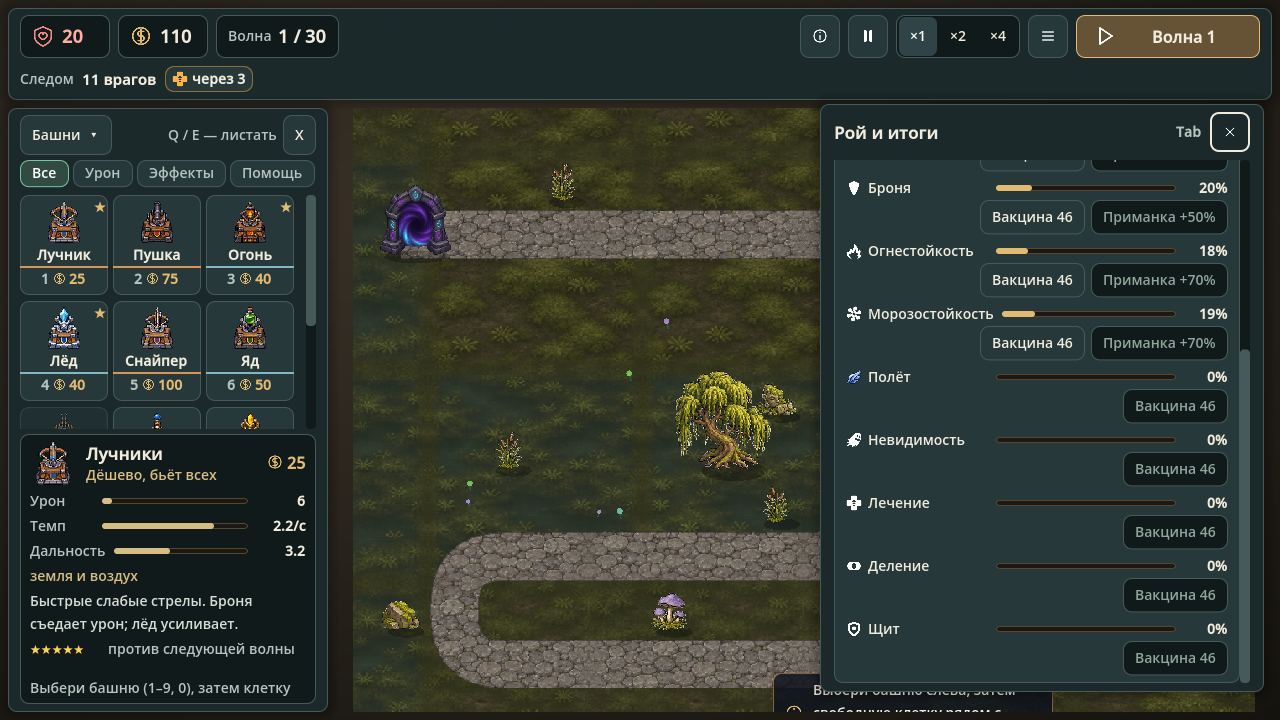
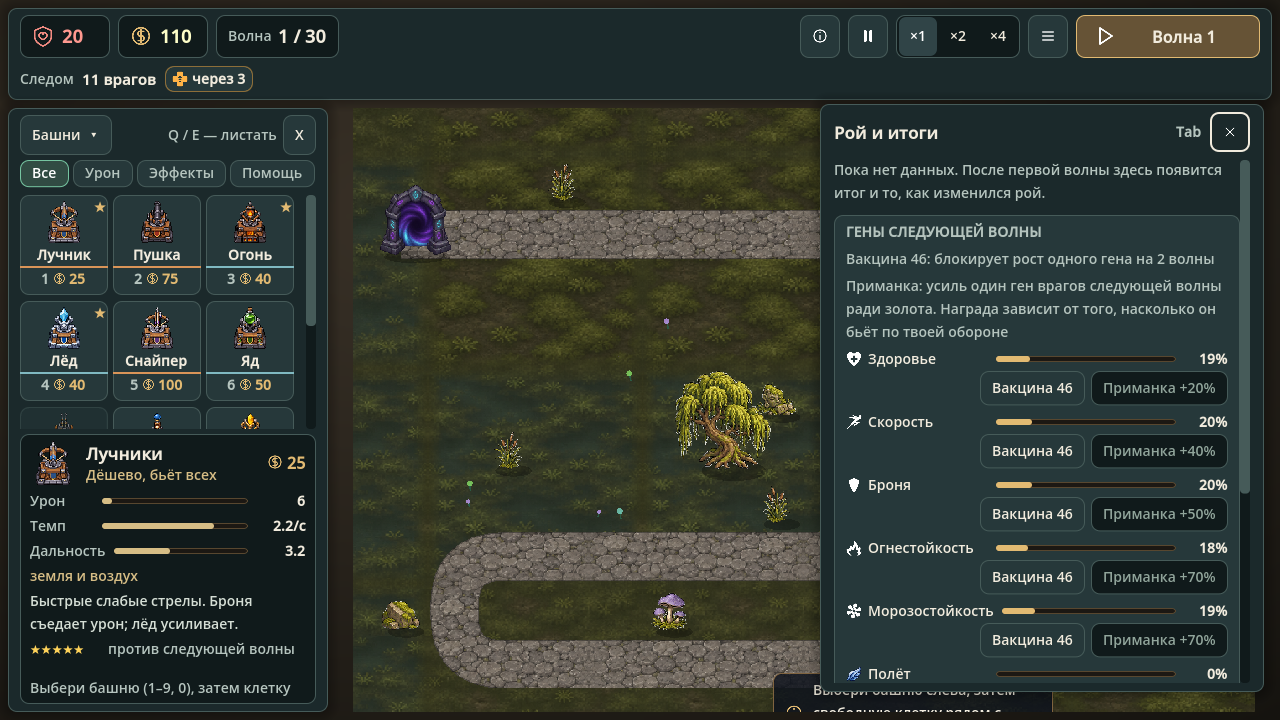
PRO-150: reset swarm context scroll and keep advice clear of inspector

diff --git a/docs/pro150/review-fixes.md b/docs/pro150/review-fixes.md
@@ -1,0 +1,50 @@
+# PR #9 — исправления по ревью 15.11.2026
+
+Ответ на [ревью владельца](https://github.com/MaksimOrekhov/outadapt/pull/9#issuecomment-6898605061). Исходная версия: `68d7b87`.
+
+## Прокрутка «Роя»
+
+Панель запоминает объект текущего TDGame через WeakRef. При новом объекте (restart, успешная загрузка, другой fixture) прокрутка сразу сбрасывается и подтверждается после раскладки контейнеров. При обновлении действий в том же забеге сохраняется прежняя позиция; revision token не позволяет более старому deferred callback переписать новую позицию. Закрытие/повторное открытие того же забега и неудачная загрузка сохраняют контекст. Сохранения, sim и игровые правила не менялись.
+
+| Размер | До ревью | Исправленный пустой Рой | Настоящий restart / load |
+|---|---|---|---|
+| 960×540 | [середина списка](../../screenshots/pro150/review/before/empty-swarm-960x540.png) | [«Пока нет данных» сверху](../../screenshots/pro150/after/empty-swarm-960x540.png) | [restart](../../screenshots/pro150/review/after/restart-swarm-960x540.png), [load](../../screenshots/pro150/review/after/loaded-swarm-960x540.png) |
+| 1280×720 | [до](../../screenshots/pro150/review/before/empty-swarm-1280x720.png) | [после](../../screenshots/pro150/after/empty-swarm-1280x720.png) | [restart](../../screenshots/pro150/review/after/restart-swarm-1280x720.png), [load](../../screenshots/pro150/review/after/loaded-swarm-1280x720.png) |
+
+## Советы на узком экране
+
+Advice popover размещается в безопасной области справа от дока с зазором 12px и ниже HUD. Ширина/высота по-прежнему ограничены viewport. Меню сохраняет собственную привязку к кнопке HUD. При изменении размера окна или высоты HUD пересчитывается раскладка открытого popup без скрытия и повторного открытия. Выбор контрбашни закрывает совет и показывает результат в свободном инспекторе.
+
+| Размер | До ревью | После |
+|---|---|---|
+| 960×540 | [закрывает инспектор](../../screenshots/pro150/review/before/advice-960x540.png) | [инспектор и действия открыты](../../screenshots/pro150/after/advice-960x540.png) |
+| 1280×720 | [до](../../screenshots/pro150/review/before/advice-1280x720.png) | [после](../../screenshots/pro150/after/advice-1280x720.png) |
+
+Все PNG сняты из Godot. Четыре исходных кадра сохранены из HEAD 68d7b87 без редактирования. Основная after-серия обновлена для advice/empty-swarm на всех четырёх разрешениях; остальные сцены не переснимались. Capture fixture скрывает перенесённые от стартового кадра pointer tooltips, чтобы снимок empty-state соответствовал отсутствию наведённой клетки.
+
+## Регрессионные проверки
+
+Новый `tests/ui_context_check.gd` включён в общий CI (15 checks). До исправления основные сценарии дали **16 FAIL**, после исправления и расширения набора — **0 failures**.
+
+На 960×540 и 1280×720 проверяются:
+
+- сохранение прокрутки при двух быстрых перестроениях и реальных callback покупки вакцины/приманки;
+- restart при открытой панели, restart при скрытой панели с последующим открытием, успешная загрузка и смена TDGame: scroll=0 и весь empty-state caption внутри scroll viewport;
+- неудачная загрузка и закрытие/повторное открытие того же контекста: прежняя позиция;
+- открытие советов A и мышью, Esc, внешний клик, выбор контрбашни мышью и закрытие popup;
+- обновление содержимого открытых советов и уменьшение окна до 960×540: popup внутри окна, ниже HUD, без пересечения с доком.
+
+Клавиатура/мышь проходят через `Window.push_input`, не через `pressed.emit`. Скрипт выполнен и headless, и на реальном renderer с сохранением PNG. `visual_slice_check.gd` дополнительно проверяет свободный инспектор при advice и нулевой scroll для empty-swarm на всех четырёх размерах.
+
+```powershell
+$g = 'D:\Godot\Godot_v4.7.2-stable_win64_console.exe'
+& $g --headless --path godot --script res://tests/ui_context_check.gd
+& $g --path godot --script res://tests/ui_context_check.gd -- --out=E:/Outadapt/screenshots/pro150/review/after
+& $g --path godot --script res://tests/visual_slice_check.gd -- --states=advice,empty-swarm --out=E:/Outadapt/screenshots/pro150/after
+```
+
+Локально Windows: **15/15 PASS**, renderer context/layout captures: **0 failures**. Актуальный Linux/Windows результат относится к [последнему HEAD PR #9](https://github.com/MaksimOrekhov/outadapt/pull/9/checks).
+
+## Визуальная приёмка
+
+Это два конкретных UI-исправления поверх существующего редизайна. Художественное качество всей графики игры относительно коммерческих референсов не объявляется утверждённым. Модели башен/врагов и основная часть декора не перерисовывались; отдельный [приоритетный art-pass](art-audit.md) остаётся предложением для следующего этапа. PRO-150 остаётся **In Review** до визуальной приёмки владельцем. Merge не выполнять.

diff --git a/docs/pro150/validation.md b/docs/pro150/validation.md
@@ -29,3 +29,5 @@
 Финальное художественное качество и визуальная приёмка остаются за владельцем. PRO-150 оставить In Review; merge не выполнять.
 
 Дополнительная проверка логов выявила два предупреждавшихся только runtime ERROR: повторное подключение ui_click при reparent кнопок home-grid и deferred tooltip для уже отсоединённого Control. Оба исправлены; menu/layout прогнаны повторно. run_ci.sh теперь считает FAIL, SCRIPT ERROR и ERROR ошибкой прогона, чтобы не принимать ложный зелёный exit code.
+
+После ревью добавлен `ui_context_check` (15-я проверка): lifecycle прокрутки Роя и адаптивная безопасная область advice, включая native keyboard/mouse/outside-click и resize. Подробности, изображения и границы визуальной приёмки — в [review-fixes.md](review-fixes.md). Актуальные checks последнего HEAD доступны в PR #9.

diff --git a/docs/pro150/README.md b/docs/pro150/README.md
@@ -68,3 +68,7 @@ $g = 'D:\Godot\Godot_v4.7.2-stable_win64_console.exe'
 Для ручной проверки конкретного модального состояния: `--inspect=wave-report --size=1600x900` или `--inspect=perks --size=960x540` вместо `--interactive`. QA-клиент остаётся открытым в выбранном состоянии до закрытия процесса.
 
 Дополнительный [визуальный аудит башен, врагов и всех шести биомов](art-audit.md) содержит реальные кадры с текущим material pass и конкретный следующий art-pass для каждого окружения.
+
+## Исправления по ревью PR #9
+
+[Новые регрессионные проверки и реальные кадры](review-fixes.md): сброс «Роя» при смене забега с сохранением позиции внутри него; advice в безопасной области справа от инспектора. Общий CI теперь содержит 15 checks. Визуальная приёмка владельцем остаётся открытой.
